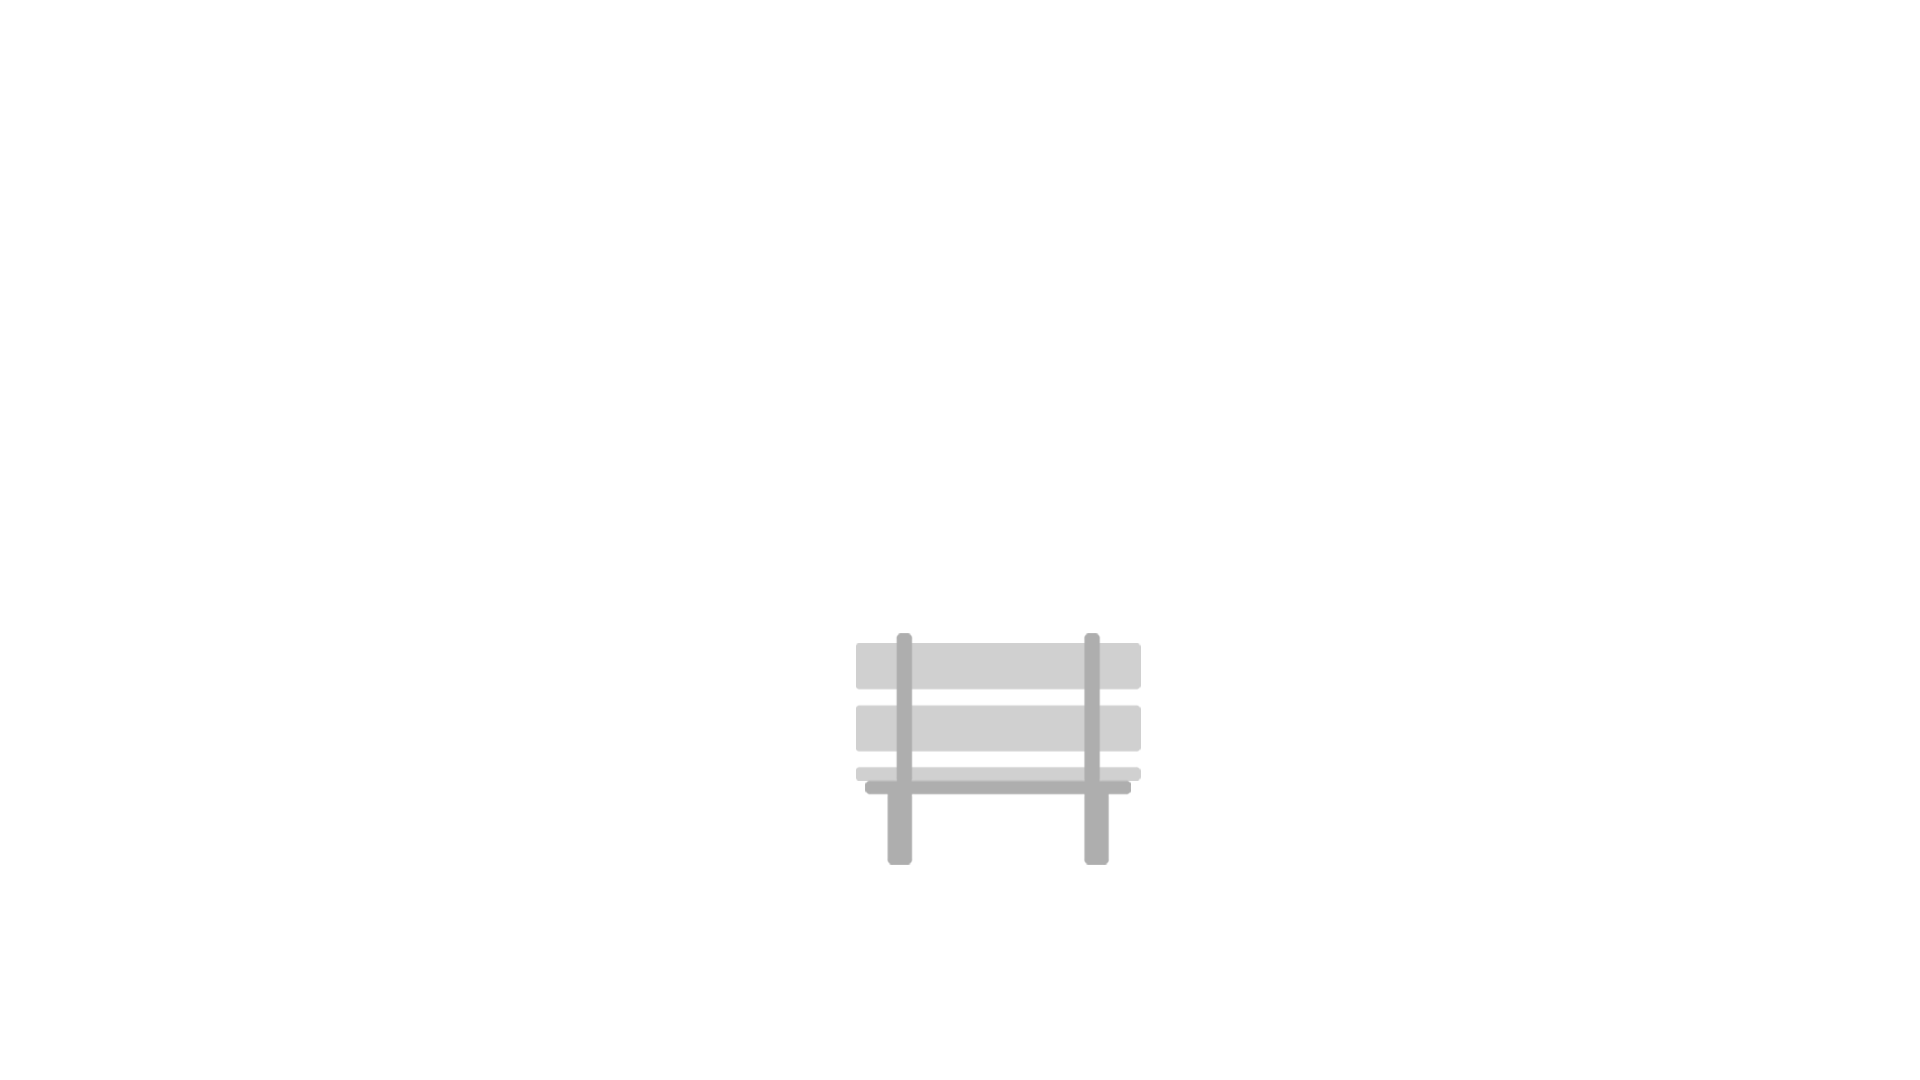
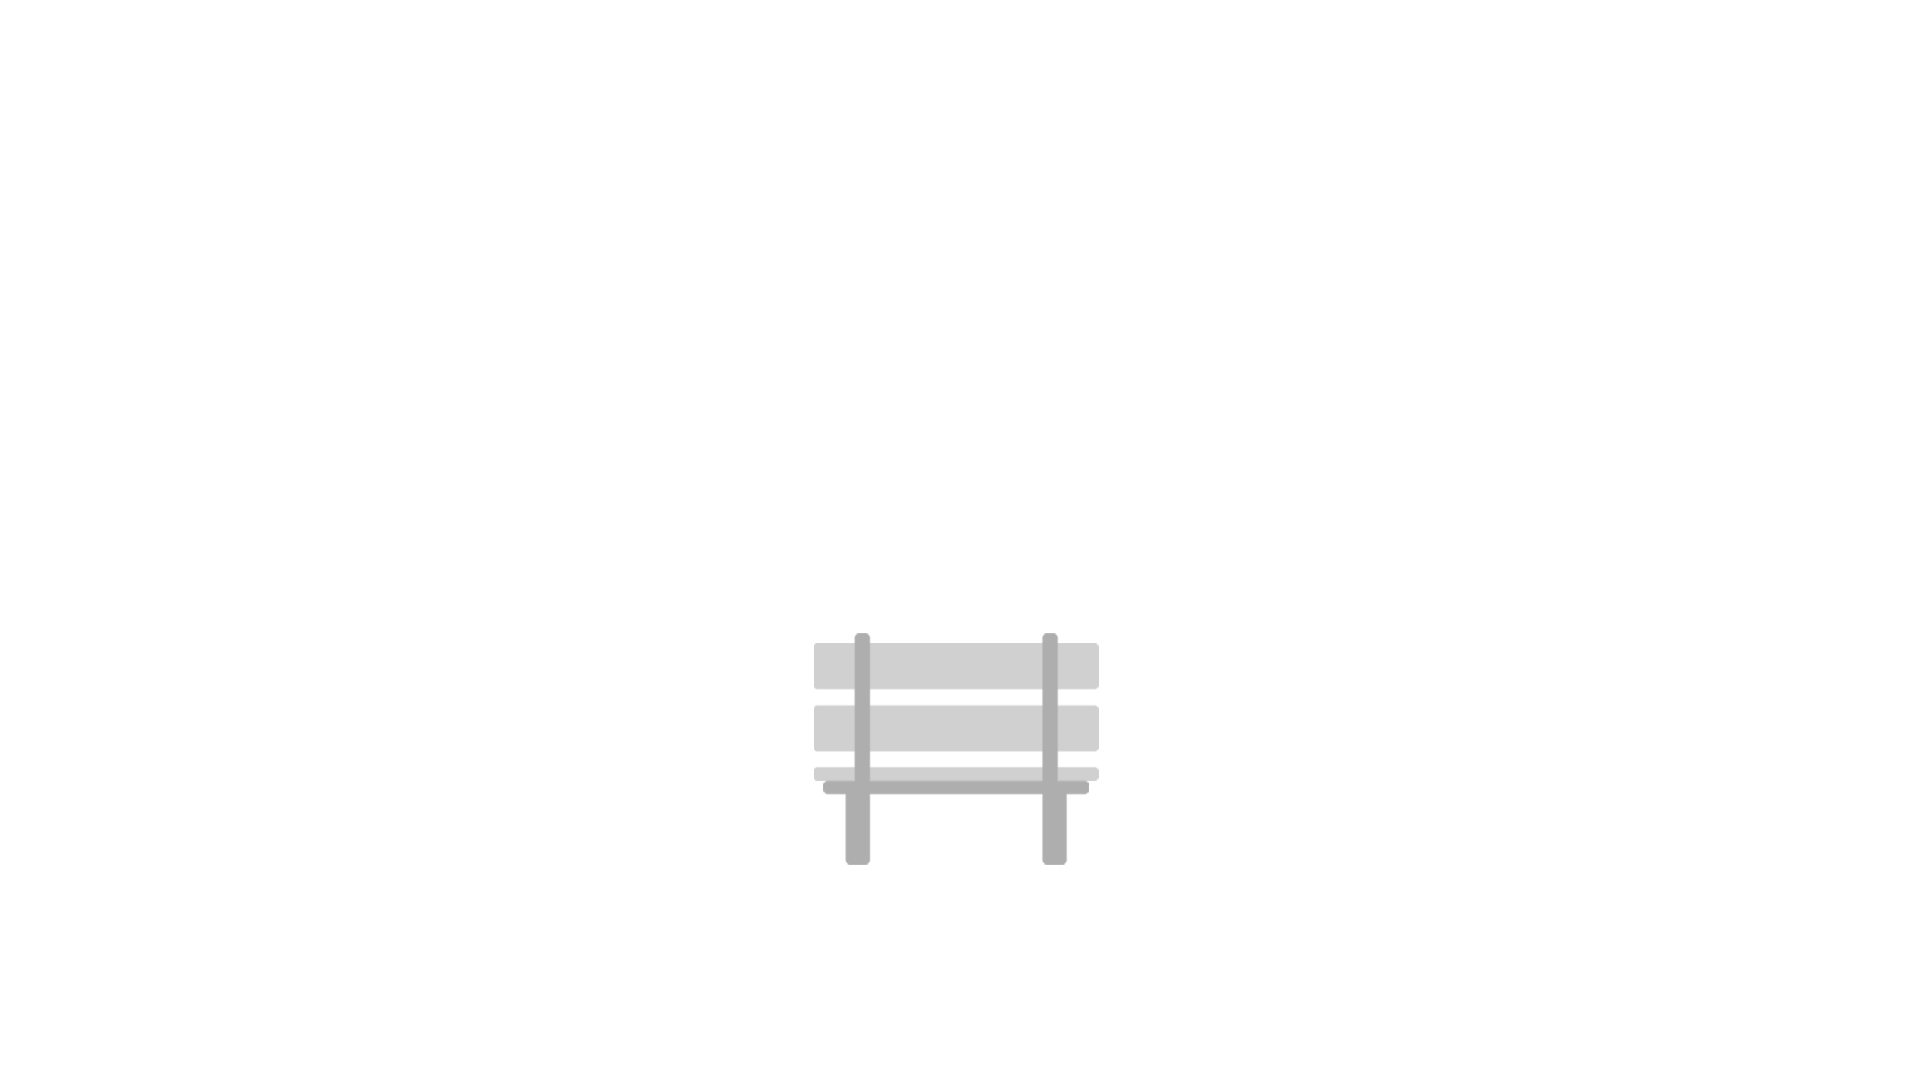
added animations on book figure

Changed region(s): [[0.4062, 0.5806, 0.5, 0.825], [0.5312, 0.5806, 0.5938, 0.7944]]

diff --git a/public/css/styles-index.css b/public/css/styles-index.css
@@ -97,6 +97,7 @@
 
 #human-equipment.locker-anim,
 #human-book.locker-anim,
+#bench.locker-anim,
 #table.locker-anim,
 #laptop.locker-anim,
 #umbrella.locker-anim {
@@ -112,13 +113,8 @@
     transform: translateX(-50px) scale(0.95);
 }
 
-#human-book.equipment-anim,
-#bench.locker-anim {
-    transform: translateX(-70px) scale(0.8);
-}
-
 #trashcan.locker-anim {
-    transform: translateX(-5px) scale(0.9);
+    transform: translateX(-20px) scale(0.9);
 }
 
 #wall2.locker-anim {
@@ -152,11 +148,11 @@
 
 #human-book.equipment-anim,
 #bench.equipment-anim {
-    transform: translateX(40px) scale(0.8);
+    transform: translateX(50px) scale(0.8);
 }
 
 #trashcan.equipment-anim {
-    transform: translateX(90px) scale(0.7);
+    transform: translateX(70px) scale(0.7);
 }
 
 #wall2.equipment-anim {
@@ -165,4 +161,36 @@
 
 #wall1.equipment-anim {
     transform: translateX(20px) translateY(10px) scale(1.1);
+}
+
+/* BOOK */
+
+#human-equipment.book-anim,
+#table.book-anim,
+#laptop.book-anim,
+#umbrella.book-anim {
+    transform: translateX(-10px) scale(0.8);
+    filter: grayscale(0.75);
+}
+
+#window.book-anim{
+    transform: translateX(-10px) scale(0.95);
+}
+
+#clock.book-anim {
+    transform: translateX(-10px) scale(0.95);
+}
+
+#human-book.book-anim,
+#bench.book-anim {
+    transform: scale(1.2);
+}
+
+#human-locker.book-anim {
+    transform: translateX(10px) scale(0.8);
+    filter: grayscale(0.75);
+}
+
+#trashcan.book-anim {
+    transform: translateX(30px) scale(0.7);
 }

diff --git a/public/js/styles.js b/public/js/styles.js
@@ -58,6 +58,36 @@ $(document).ready(function () {
         }
     );
 
+    $('#book-btn').hover(
+        function () {
+            $(`#human-locker, 
+               #human-equipment,
+               #human-book,
+               #table,
+               #laptop,
+               #umbrella, 
+               #bench,
+               #trashcan, 
+               #clock,
+               #window,
+               #wall2,
+               #wall1`).addClass('book-anim');
+        }, function () {
+            $(`#human-locker, 
+               #human-equipment,
+               #human-book,
+               #table,
+               #laptop,
+               #umbrella, 
+               #bench,
+               #trashcan, 
+               #clock,
+               #window,
+               #wall2,
+               #wall1`).removeClass('book-anim');
+        }
+    );
+
     var collapsed = false;
     $('.nav-btn').click(function () {
         if (!collapsed) {
